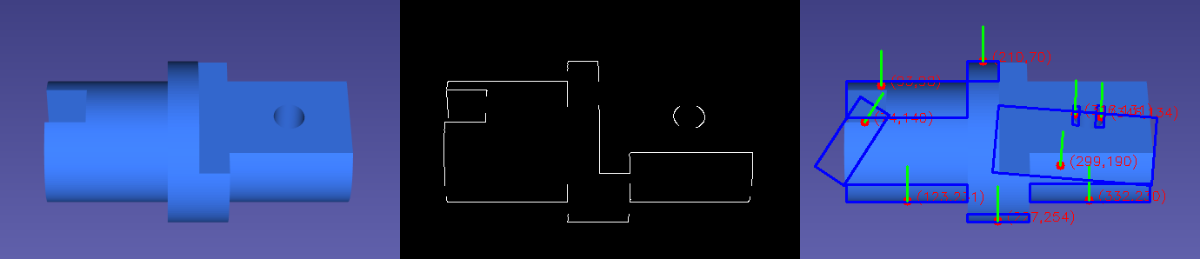
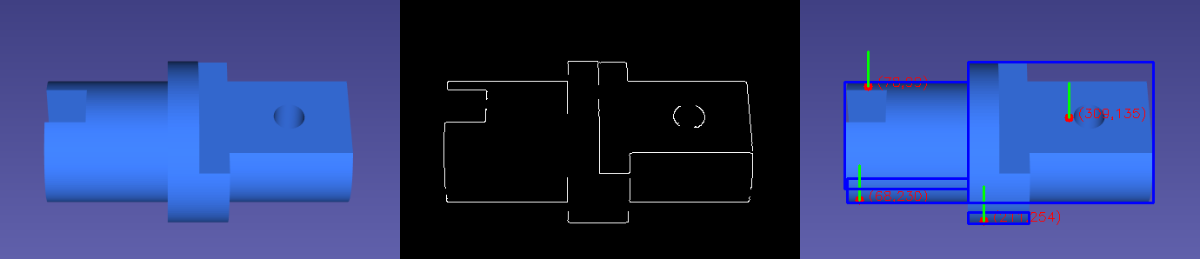
bordes canny, kernelpara cerrar

diff --git a/pia2.py b/pia2.py
@@ -3,95 +3,92 @@ import numpy as np
 
 # 1. DEFINICIÓN DE VARIABLES
 # ==========================================
-# Caso 9
 img09_entrada, img09_salida = 'portabaterias.png', 'etapas_img09.png'
-# Caso 10 (A y B)
 img10a_entrada, img10a_salida = 'pinza-mesa-120deg.png', 'etapas_img10_120.png'
 img10b_entrada, img10b_salida = 'pinza-mesa-90deg.png', 'etapas_img10_90.png'
-# Caso 11
 img11_entrada, img11_salida = 'Perno-de-bloqueo.png', 'etapas_img11.png'
-# Caso 12
 img12_entrada, img12_salida = 'placa-rectangular.png', 'etapas_img12.png'
 
 # ==========================================
 # 2. FUNCIÓN DE PROCESAMIENTO 
 # ==========================================
 def procesar_figura(nombre_imagen, nombre_salida):
-    # 1. Cargar imagen
     img = cv2.imread(nombre_imagen)
     if img is None:
         print(f"No se encontró: {nombre_imagen}")
         return
     
     gray = cv2.cvtColor(img, cv2.COLOR_BGR2GRAY)
-    #mejorando la img de entrada , desenfocando para reducir ruido
     blurred = cv2.GaussianBlur(gray, (5, 5), 0)
     color_img = img.copy()
 
-    # 2. Detección de bordes
-    # edges = cv2.Canny(gray, 50, 150)
-    # edges = cv2.Canny(blurred, 70, 50)
-    # edges = cv2.Canny(blurred, 10, 50)
-    # edges = cv2.Canny(blurred, 8, 50)
-    edges = cv2.Canny(blurred, 20, 100)
+    # 2. Detección de bordes (Canny)
+    # edges = cv2.Canny(blurred, 50, 150) # Umbrales un poco más altos para limpiar ruido
+    # edges = cv2.Canny(blurred, 8, 50) # Umbrales  muy bajos
+    edges = cv2.Canny(blurred, 20, 100) # Umbrales  ajustados 
     edges_bgr = cv2.cvtColor(edges, cv2.COLOR_GRAY2BGR)
 
-    # se crea un elemento estructurante (kernel) grande para unir bordes lejanos
-    # Un kernel de 15x15 es potente para cerrar orificios y unir piezas separadas
-    # kernel = np.ones((15, 15), np.uint8)
-    # kernel = np.ones((17, 17), np.uint8)
-    kernel = np.ones((20, 20), np.uint8)
-    
-    # Aplicamos "Closing" (Clausura): Dila la imagen (expande bordes) y luego la erosiona (contrae).
-    # Esto rellena huecos internos y une contornos cercanos en una sola masa.
+    # Clausura para unir los bordes de la pieza en una sola masa
+    kernel = np.ones((15, 15), np.uint8)
     closing = cv2.morphologyEx(edges, cv2.MORPH_CLOSE, kernel)
-    # -------------------------------------------------------
 
     # 3. Encontrar contornos
     contours, _ = cv2.findContours(closing, cv2.RETR_EXTERNAL, cv2.CHAIN_APPROX_SIMPLE)
 
-    # 4. Procesa cada contorno
-    for cnt in contours:
+    # 4. FILTRO: Solo procesar el contorno más grande (la pieza principal)
+    if contours:
+        cnt = max(contours, key=cv2.contourArea)
+        
+        # CÁLCULO DE MOMENTOS
         M = cv2.moments(cnt)
         if M["m00"] != 0:
+            # Centroide (Centro de Gravedad)
             cx = int(M["m10"] / M["m00"])
             cy = int(M["m01"] / M["m00"])
 
+            # Dibujar Centroide
             cv2.circle(color_img, (cx, cy), 5, (0, 0, 255), -1)
-            cv2.putText(color_img, f"({cx},{cy})", (cx+10, cy), cv2.FONT_HERSHEY_SIMPLEX, 0.5, (0,0,255), 1)
+            cv2.putText(color_img, f"CG:({cx},{cy})", (cx+10, cy), 
+                        cv2.FONT_HERSHEY_SIMPLEX, 0.5, (0,0,255), 1)
 
+            # Cálculo de Orientación
             rect = cv2.minAreaRect(cnt)
             angle = rect[-1]
+            
+            # Ajuste de ángulo , el eje para alinear el sistema de la imagen con el simulador
+            if rect[1][0] < rect[1][1]:
+                angle_robot = angle + 180
+            else:
+                angle_robot = angle + 90
+
+            # Dibujar Caja y Vector de inclinación
             box = np.intp(cv2.boxPoints(rect))
             cv2.drawContours(color_img, [box], 0, (255, 0, 0), 2)
+            
+            length = 50
+            rad = np.deg2rad(angle_robot)
+            cv2.line(color_img, (cx, cy), 
+                     (int(cx + length * np.cos(rad)), int(cy + length * np.sin(rad))), 
+                     (0, 255, 0), 2)
 
-            length = 40
-            angle_rad = np.deg2rad(angle)
-            dx = int(length * np.cos(angle_rad))
-            dy = int(length * np.sin(angle_rad))
-            cv2.line(color_img, (cx, cy), (cx + dx, cy + dy), (0, 255, 0), 2)
+            print(f"Imagen: {nombre_imagen:25} -> Centro: ({cx:3}, {cy:3}), Angulo: {angle_robot:6.2f} deg")
 
-            print(f"Imagen: {nombre_imagen} -> Centro: ({cx}, {cy}), Angulo: {angle} deg")
-
-    # --- CREAR MOSAICO (Original, bordes , resultado) ---
+    # --- CREAR MOSAICO ---
     h, w = img.shape[:2]
     nueva_w = 400
     nueva_h = int(h * (nueva_w / w))
     
     res1 = cv2.resize(img, (nueva_w, nueva_h))
-    res2 = cv2.resize(edges_bgr, (nueva_w, nueva_h))
+    res2 = cv2.resize(cv2.cvtColor(closing, cv2.COLOR_GRAY2BGR), (nueva_w, nueva_h))
     res3 = cv2.resize(color_img, (nueva_w, nueva_h))
-    
     mosaico = np.hstack((res1, res2, res3))
 
-    # 5. Muestra y guarda
     cv2.imshow(f'Procesando: {nombre_imagen}', mosaico)
     cv2.imwrite(nombre_salida, mosaico)
-    cv2.waitKey(0) # Pausa para ver cada una
+    cv2.waitKey(0) 
     cv2.destroyAllWindows()
 
-# =====================================================
-# 3. EJECUCIÓN 
+# 3. EJECUCIÓN
 procesar_figura(img09_entrada, img09_salida)
 procesar_figura(img10a_entrada, img10a_salida)
 procesar_figura(img10b_entrada, img10b_salida)
